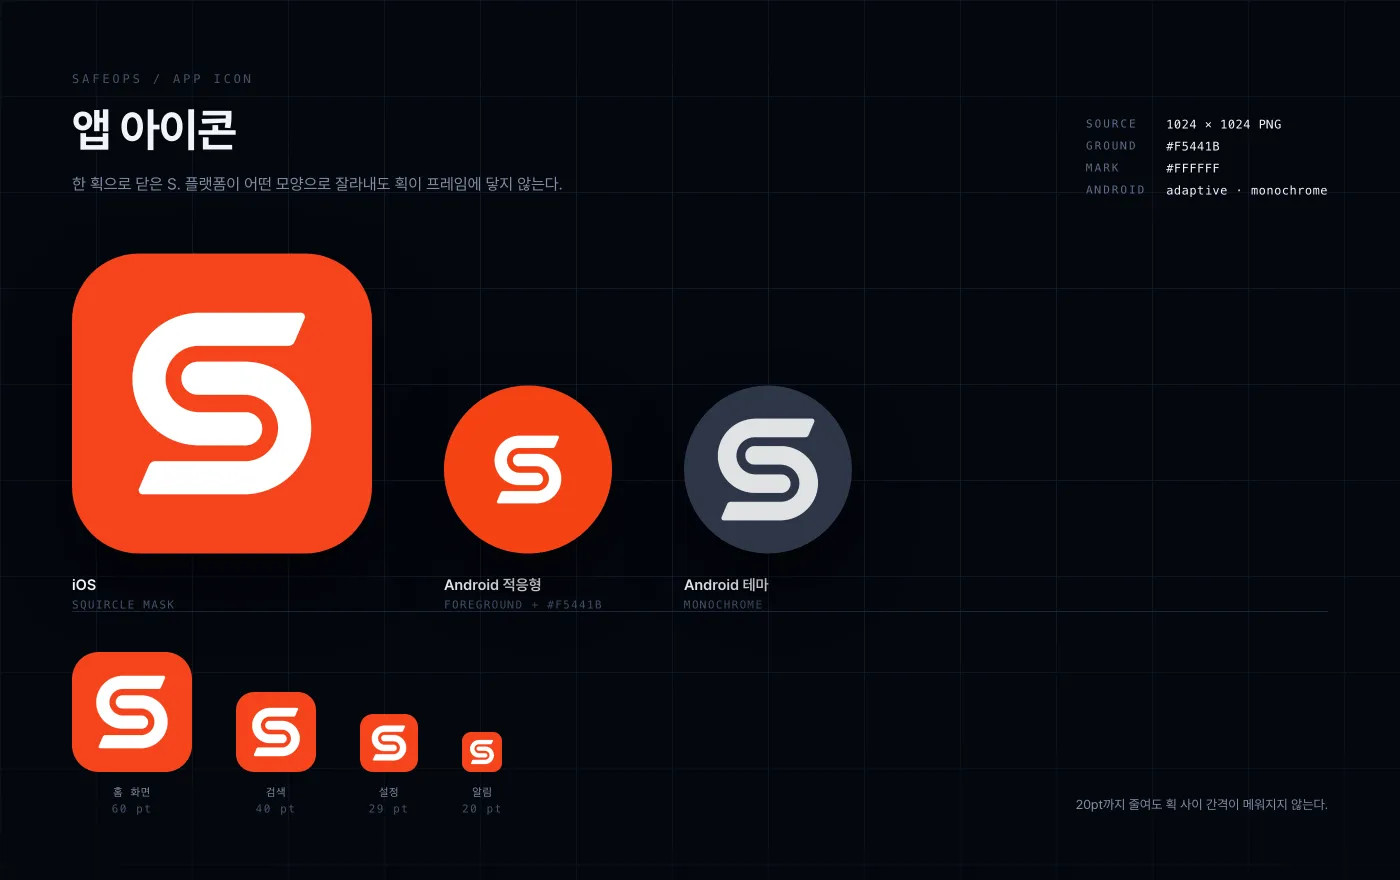
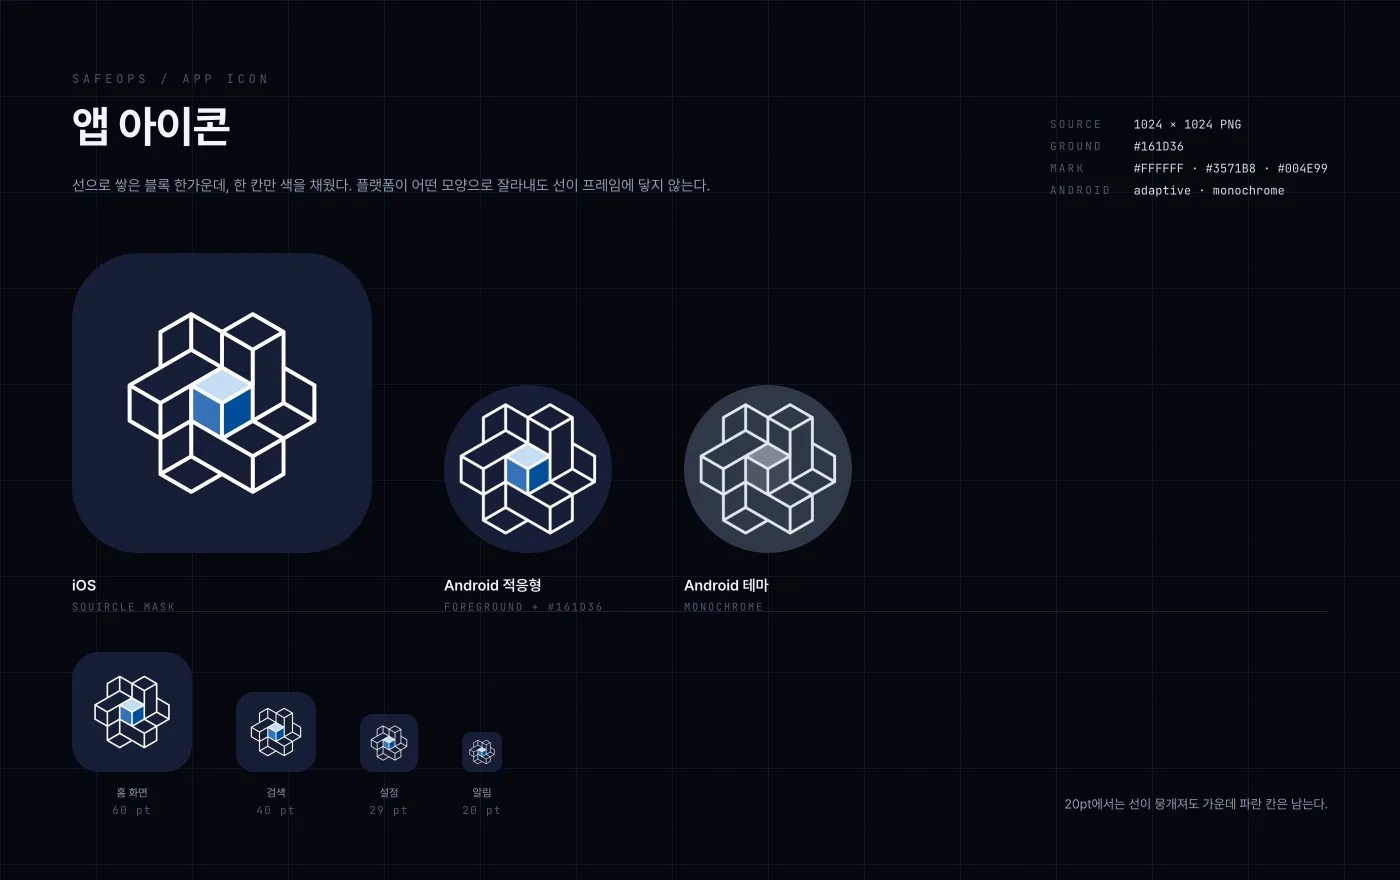
feat: SafeOps 앱 아이콘과 스플래시를 새 큐브 로고로 갈아 끼운다
앱 쪽 아이콘이 네이비 바탕 큐브 로고로 바뀌고 스플래시가 다크·라이트 두 벌이 됐다.
상세 아이콘 webp와 아이콘·스플래시 시트를 다시 만들고, 사실이 아니게 된
시트 설명(#F5441B 아이콘 바탕)을 고쳤다. 시트는 정본 파일이 없어 다시 찍는 방법을
PROGRESS에 남긴다.

Claude-Session: https://claude.ai/code/session_01CkbqiptAYMGMBzmwoJeSPw

diff --git a/src/data/projects.ts b/src/data/projects.ts
@@ -313,12 +313,12 @@ export const projects: Project[] = [
             {
                 src: safeopsSheetIcon,
                 title: "앱 아이콘",
-                note: "아이콘 바탕 #F5441B는 지금 이 페이지가 강조에 쓰는 색이기도 합니다.",
+                note: "바탕 네이비 #161D36은 안드로이드 적응형 아이콘과 부팅 스플래시도 같이 씁니다. 선만으로 쌓은 블록 가운데 한 칸에만 색을 넣어서, 작게 줄여도 그 파란 칸은 남습니다.",
             },
             {
                 src: safeopsSheetSplash,
-                title: "실행",
-                note: "부팅 스플래시에서 앱 스플래시로 넘어가는 두 판. 이 페이지의 지면 #080D16이 여기서 왔습니다.",
+                title: "스플래시 — 다크 · 라이트",
+                note: "앱이 그리는 스플래시도 테마를 따라 두 벌입니다. 로고는 선 색이 흰색과 남색으로 달라서 색만 바꾸지 않고 PNG를 테마마다 따로 둡니다. 다크의 지면 #080D16이 이 페이지의 지면이기도 합니다.",
             },
         ],
         links: {},

diff --git a/api/_lib/knowledge.generated.ts b/api/_lib/knowledge.generated.ts
@@ -499,11 +499,11 @@ export const knowledge: Knowledge = {
                 },
                 {
                     title: "앱 아이콘",
-                    note: "아이콘 바탕 #F5441B는 지금 이 페이지가 강조에 쓰는 색이기도 합니다.",
+                    note: "바탕 네이비 #161D36은 안드로이드 적응형 아이콘과 부팅 스플래시도 같이 씁니다. 선만으로 쌓은 블록 가운데 한 칸에만 색을 넣어서, 작게 줄여도 그 파란 칸은 남습니다.",
                 },
                 {
-                    title: "실행",
-                    note: "부팅 스플래시에서 앱 스플래시로 넘어가는 두 판. 이 페이지의 지면 #080D16이 여기서 왔습니다.",
+                    title: "스플래시 — 다크 · 라이트",
+                    note: "앱이 그리는 스플래시도 테마를 따라 두 벌입니다. 로고는 선 색이 흰색과 남색으로 달라서 색만 바꾸지 않고 PNG를 테마마다 따로 둡니다. 다크의 지면 #080D16이 이 페이지의 지면이기도 합니다.",
                 },
             ],
             pipeline: {
